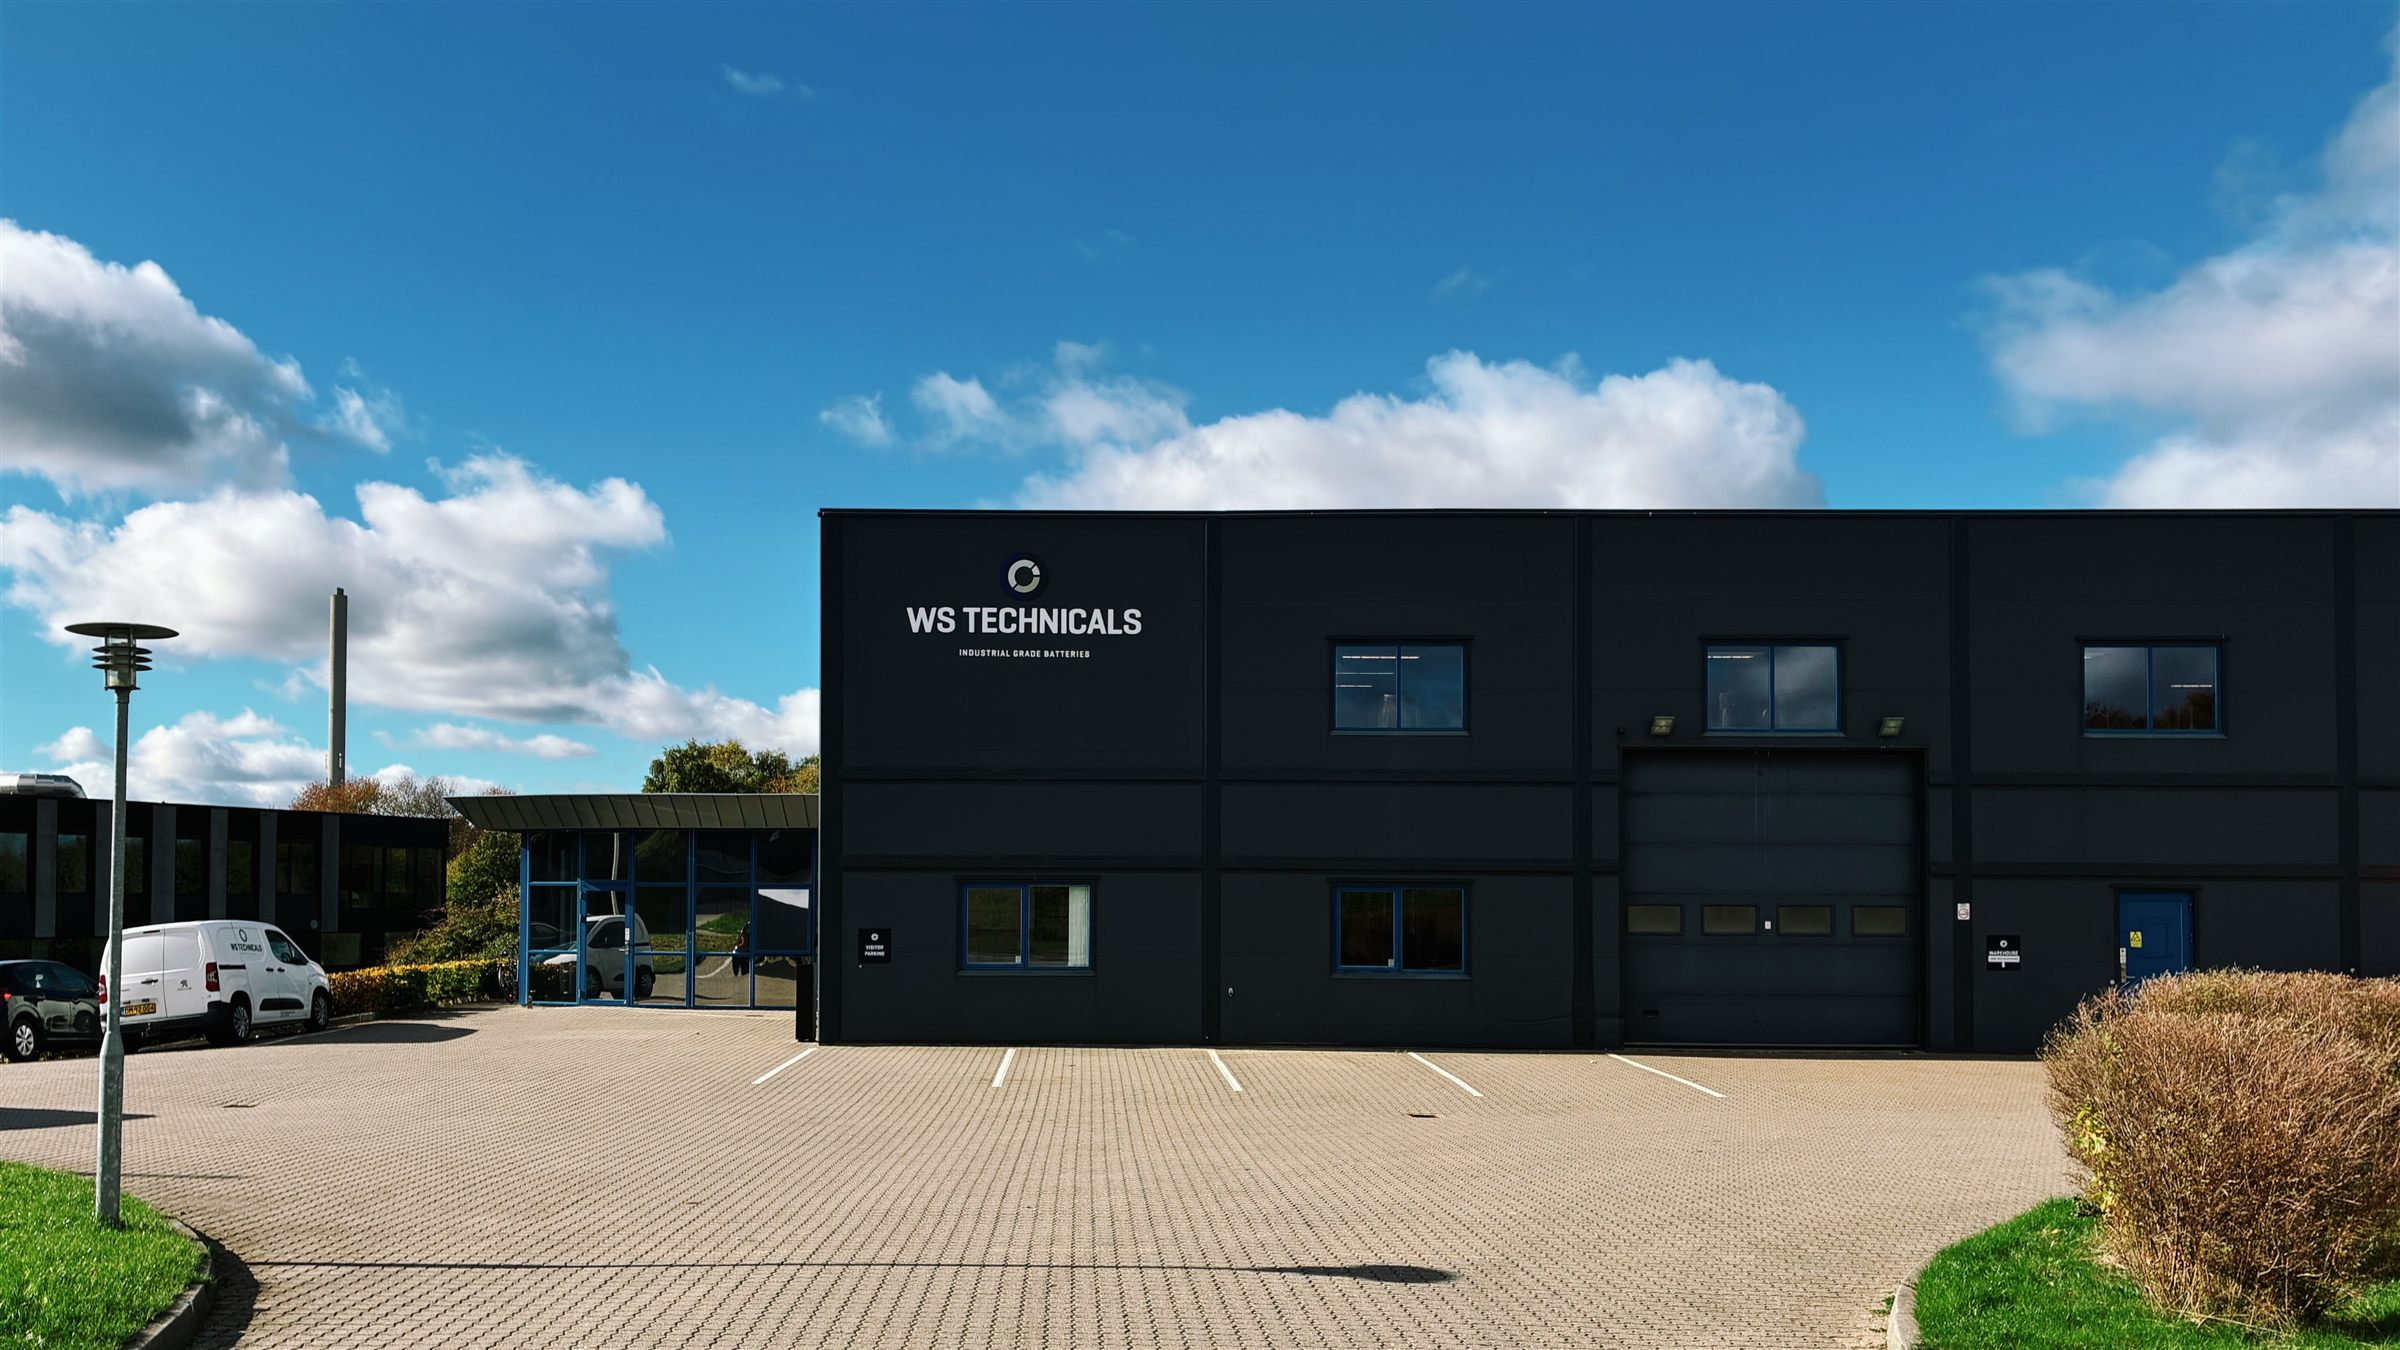
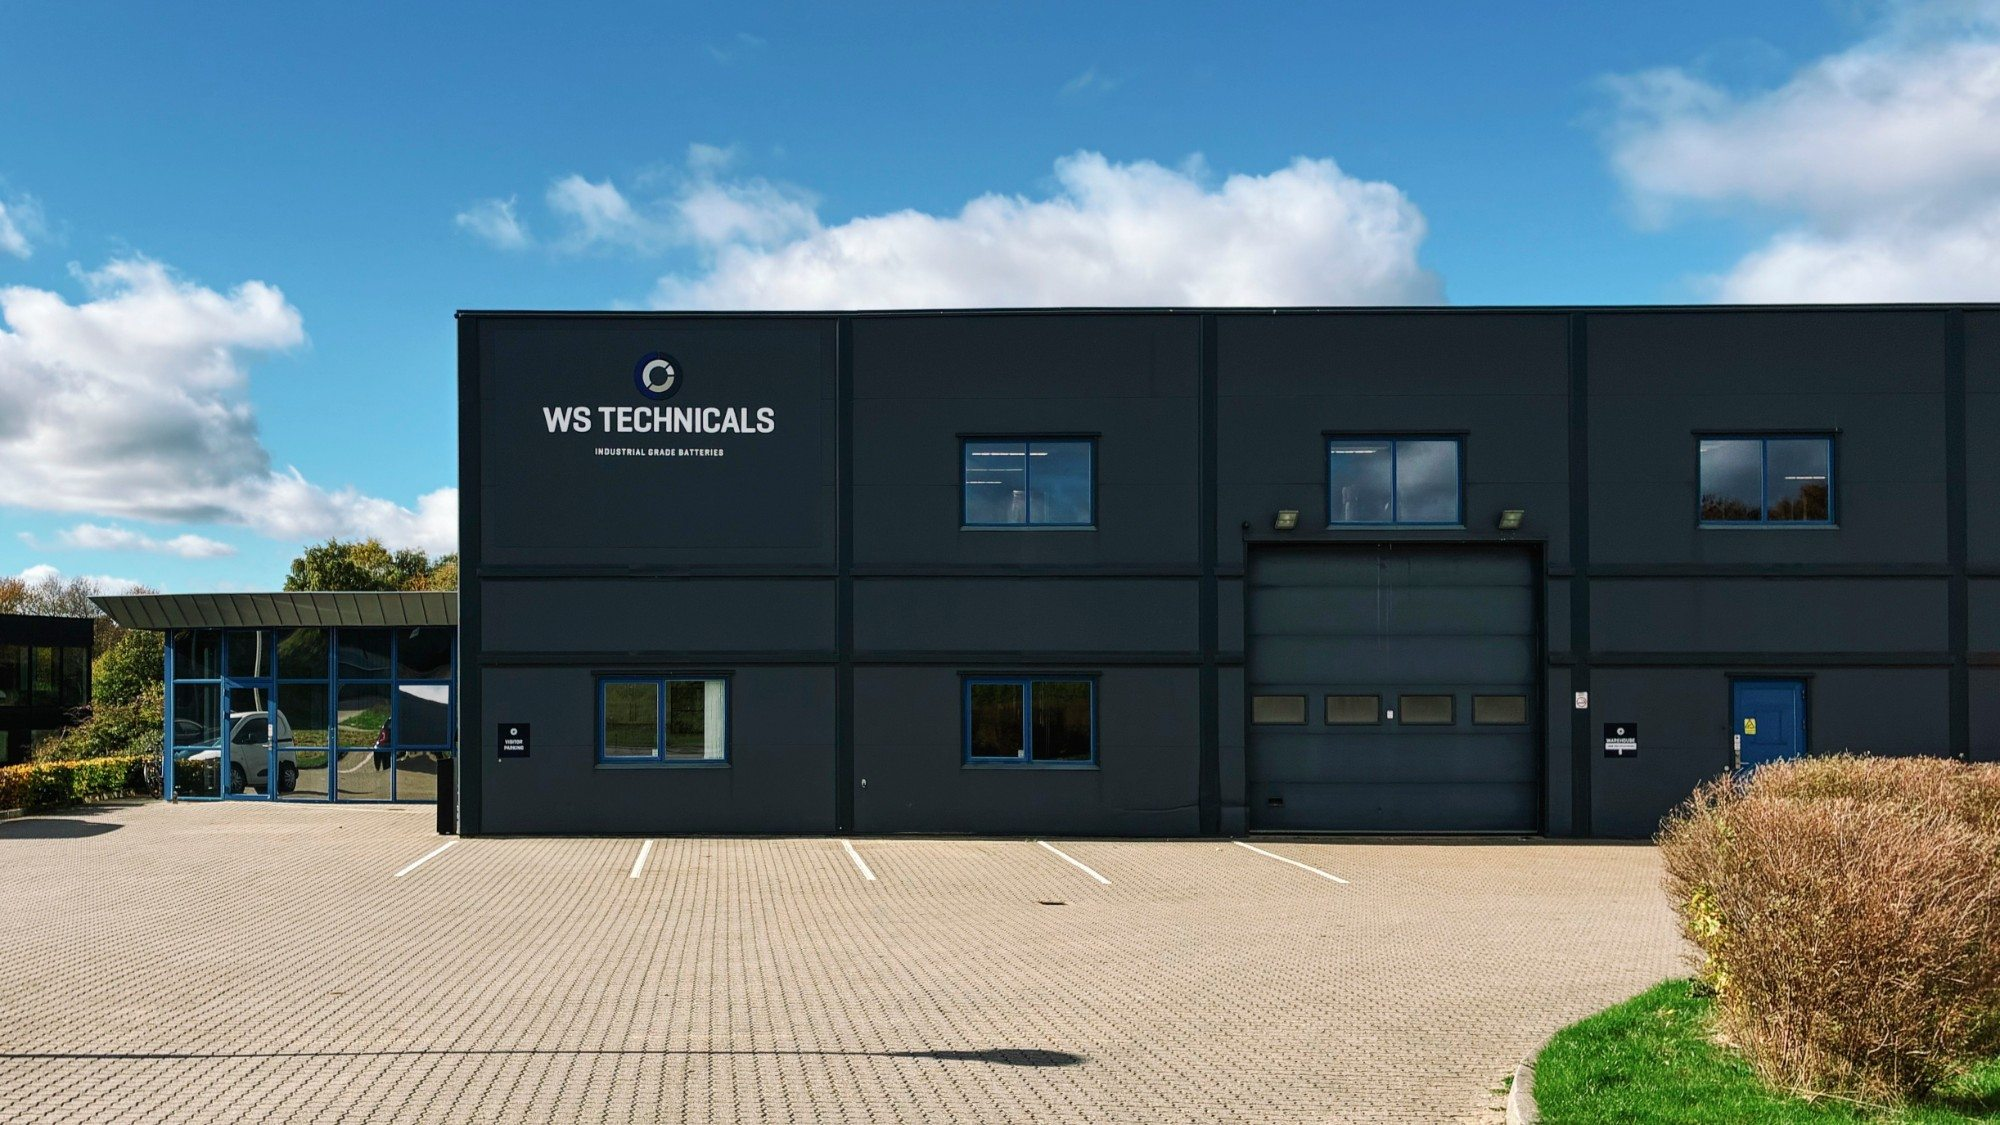
About: new headquarters photo

diff --git a/about.html b/about.html
@@ -526,7 +526,7 @@ body[data-wst-page="about"] > .ambient{ opacity:.3; }
       <p>A dedicated environment designed to bring customer dialogue, development, testing and production closer together.</p>
     </div>
     <figure class="facility-preview-image">
-      <img src="assets/about/headquarters-elmegardsvej.jpg" alt="The WS Technicals headquarters on Elmegårdsvej" width="2400" height="1350" loading="lazy" decoding="async">
+      <img src="assets/about/headquarters-elmegardsvej.jpg?v=2" alt="The WS Technicals headquarters on Elmegårdsvej" width="2000" height="1125" loading="lazy" decoding="async">
     </figure>
   </div>
 </section>
